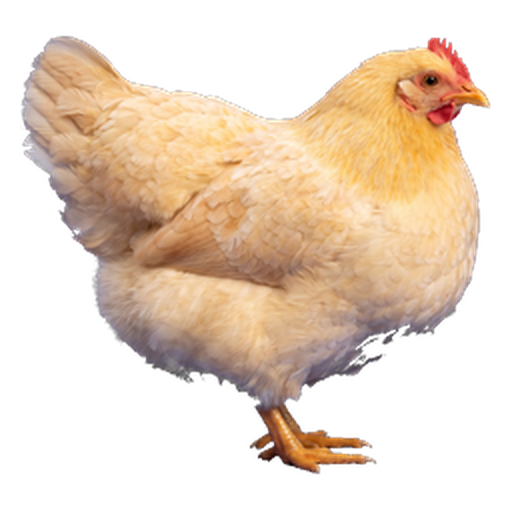
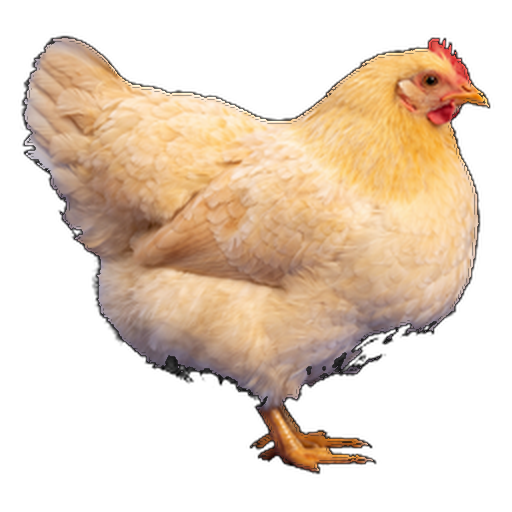
No purple halo: de-fringed cutouts (chick, hen, egg) and a warm hero shadow
Claude-Session: https://claude.ai/code/session_01RxSC9pBXQKjPQo7Mg3bbnz

diff --git a/site/site.css b/site/site.css
@@ -119,7 +119,7 @@ button{font-family:inherit;cursor:pointer}
 .hero-grid{position:relative}
 .hero-hen{position:absolute;left:50%;top:52%;transform:translate(-50%,-50%);z-index:2;
   pointer-events:none;animation:hen-settle 4.5s ease-in-out infinite}
-.hero-hen .hh-hen{width:158px;display:block;filter:drop-shadow(0 18px 26px rgba(40,32,4,.22))}
+.hero-hen .hh-hen{width:158px;display:block;filter:drop-shadow(0 18px 26px rgba(120,86,10,.20))}
 .hero-hen .hh-egg{width:42px;position:absolute;left:-24px;bottom:2px;
   filter:drop-shadow(0 8px 12px rgba(40,32,4,.2))}
 @keyframes hen-settle{0%,100%{transform:translate(-50%,-50%)}50%{transform:translate(-50%,calc(-50% - 6px))}}
